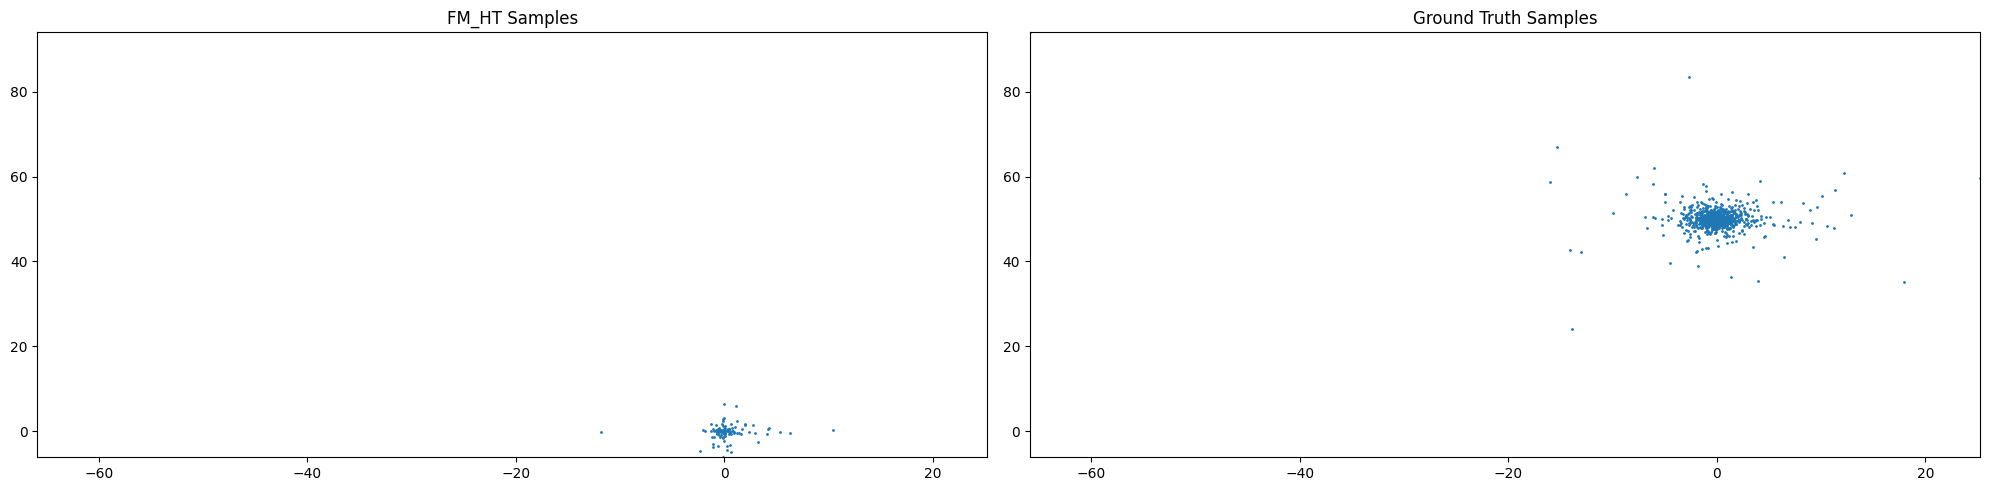
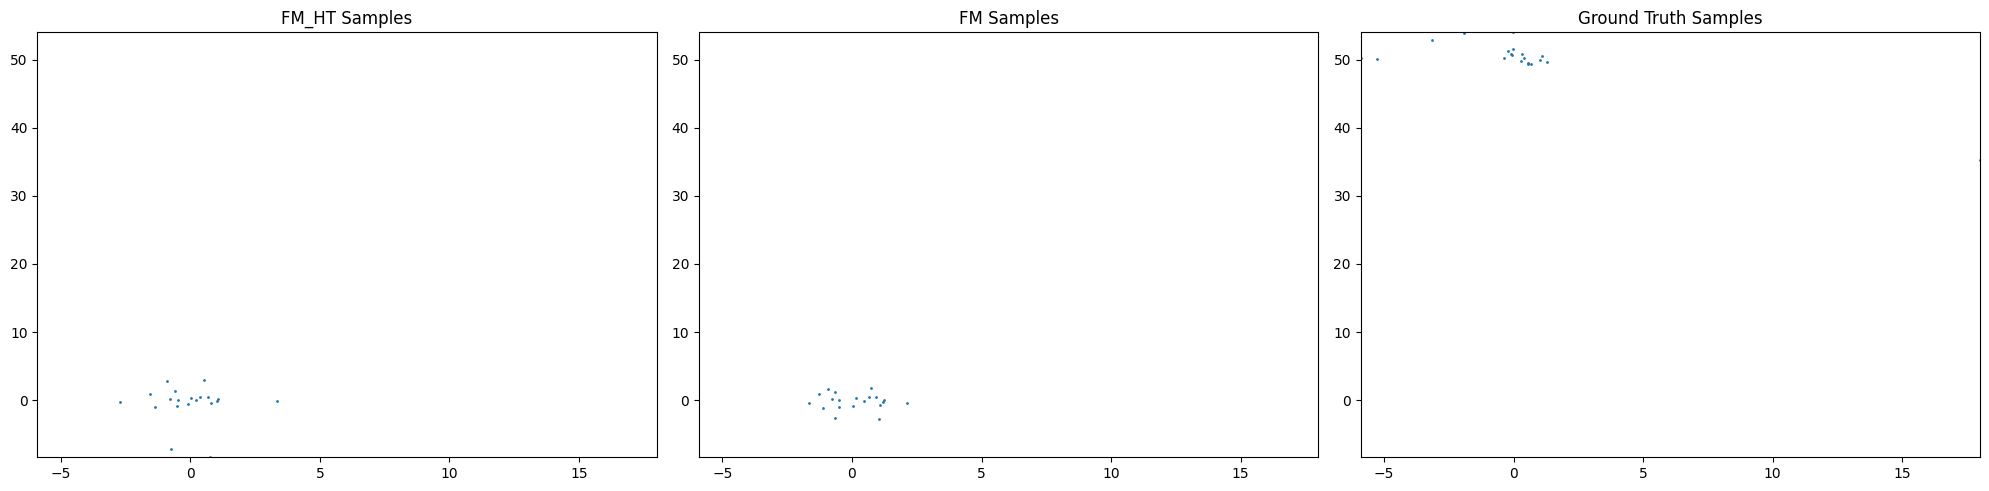
fix fm trianing

diff --git a/main.py b/main.py
@@ -22,26 +22,30 @@ def main():
     # Parse arguments
 
     args = parse_arguments()
-    X1 = torch.tensor(np.load("data/ST2.npy"))
+    X1 = torch.tensor(np.load("data/ST2.npy"))[:100000]
     X0 = torch.randn_like(torch.Tensor(X1))
+
     # Creating dataloader
     dataloader1 = torch.utils.data.DataLoader(X1, batch_size=4096, shuffle=True)
     dataloader0 = torch.utils.data.DataLoader(X0, batch_size=4096, shuffle=True)
 
+    device = 'cuda'
 
-    #net_fm = FMnet()
-    #model_FM = GaussFlowMatching_OT(net_fm, device=args.device)
-    #optimizer_fm = torch.optim.Adam(net_fm.parameters(), 5e-4)
-
-    #model_FM.train(optimizer_fm, dataloader1 , dataloader0 , n_epochs=120)
-    #gen_FM_samples, hist_FM = model_FM.sample_from(X0[:4000])
-
+    # Setting the parameters of the model
     dim = 2
     hidden_dim = 512
     lr = 1e-4
-    epochs = 1
+    epochs = 150
 
-    device = 'cuda'
+
+    net_fm = FMnet()
+    model_FM = GaussFlowMatching_OT(net_fm, device=args.device)
+    optimizer_fm = torch.optim.Adam(net_fm.parameters(), lr)
+
+    model_FM.train(optimizer_fm, dataloader1 , dataloader0 , n_epochs=epochs)
+    gen_FM_samples, hist_FM = model_FM.sample_from(X0.to(device))
+
+
     flow_net = MLP(input_dim=dim, time_dim=1, hidden_dim=hidden_dim).to(device)
     tail_net = MLP_TailParam(time_dim=1, hidden_dim=hidden_dim//2, output_dim=4*dim).to(device)
 
@@ -51,13 +55,12 @@ def main():
 
     model_ht_fm = HT_FlowMatching_X0(tail_net, flow_net, ttf, dim, device)
     model_ht_fm.train(optim_net, optim_tail, dataloader1, dataloader0, epochs)
-    gen_samples_FMHT = model_ht_fm.generate(X0[0:10000].to(device))
-    print(device)
+    gen_samples_FMHT = model_ht_fm.sample_from(X0.to(device))
 
     # Plots
     plot_model_samples(
-        [gen_samples_FMHT],
-        ['FM_HT'],
+        [gen_samples_FMHT, gen_FM_samples],
+        ['FM_HT', 'FM'],
         X1)
 
 

diff --git a/models/HT_Flow.py b/models/HT_Flow.py
@@ -103,7 +103,7 @@ class HT_FlowMatching_X0:
         return self.flow_model(x_t, t)
 
 
-    def generate(self, X0):
+    def sample_from(self, X0):
         # step size for ode solver
         self.flow_model.sim=True
         wrapped_vf = WrappedModel(self.flow_model)
